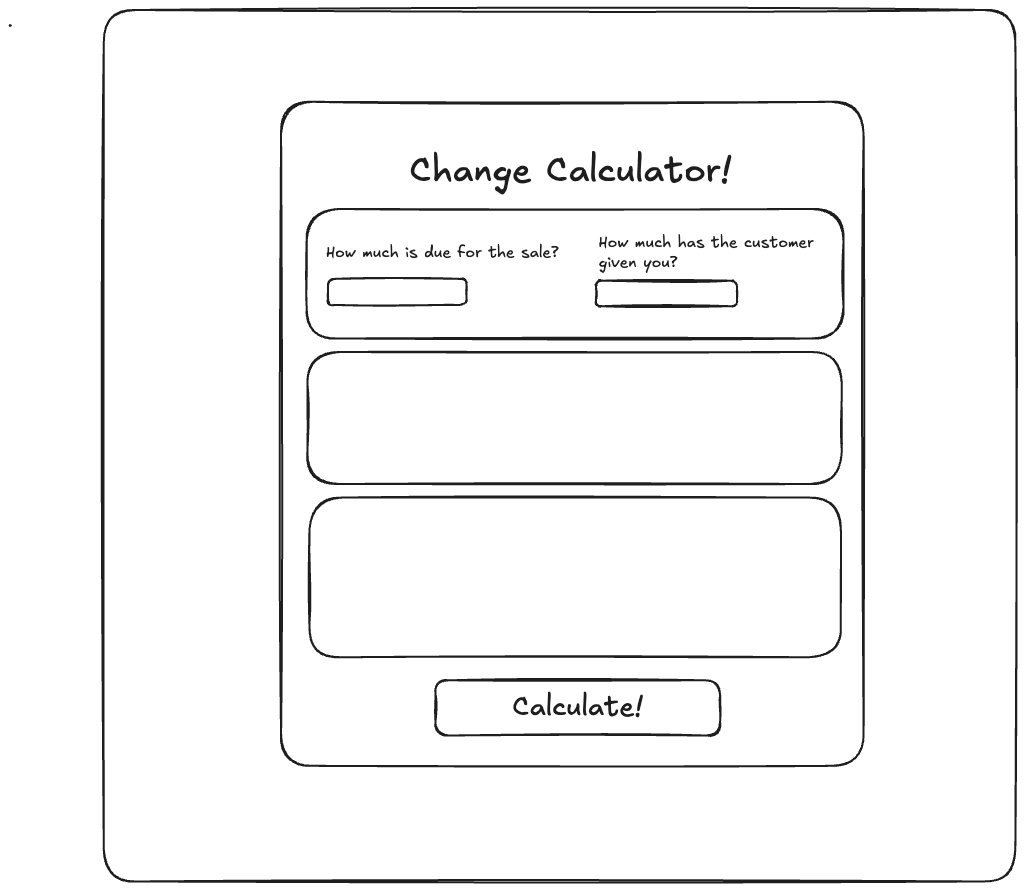
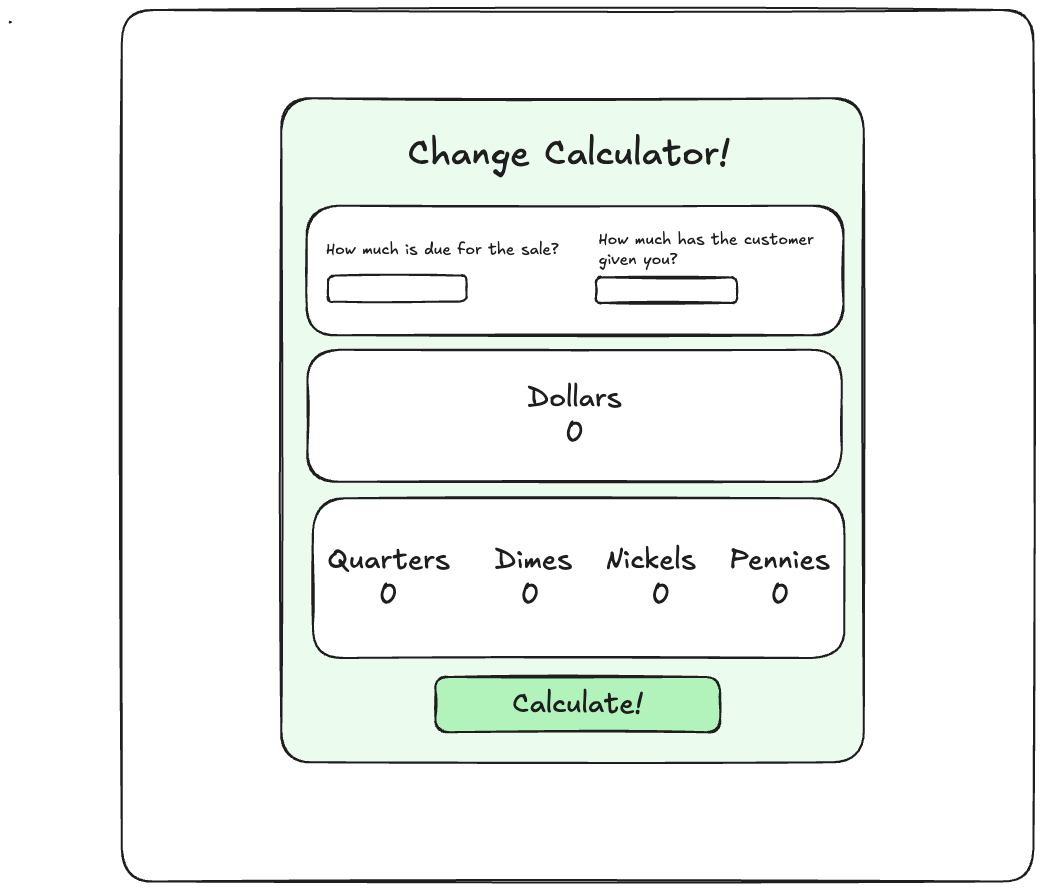
Added initial HTML boilerplate and main section content

diff --git a/index.html b/index.html
@@ -6,9 +6,29 @@
     <title>Change Calculator</title>
   </head>
   <body>
-    <!-- Write your markup here -->
-
-    <!-- Don't forget to add your <script> tag here -->
-
+    <main>
+      <section class="main-container">
+        <h1>Change Calculator</h1>
+        <section class="functionality">
+          <div class="inputs">
+            <p>How much is due for the sale?</p>
+            <input id="amount-due" type="text" placeholder="Amount due"/>
+            <p>How much has the customer given you?</p>
+            <input id="amount-received" type="text" placeholder="Customer amount given"/>
+          </div>
+          <div class="dollars">
+            <h2>Dollars</h2><p id="dollars-output">0</p>
+          </div>
+          <div class="coins">
+            <h2>Quarters</h2><p id="quarters-output">0</p>
+            <h2>Dimes</h2><p id="dimes-output">0</p>
+            <h2>Nickels</h2><p id="nickels-output">0</p>
+            <h2>Pennies</h2><p id="pennies-output">0</p>
+          </div>
+          <button id="calculate-change" type="button">Calculate</button>
+        </section>
+      </section>
+    </main>
+    <script src="main.js" charset="utf-8"></script>
   </body>
 </html>
